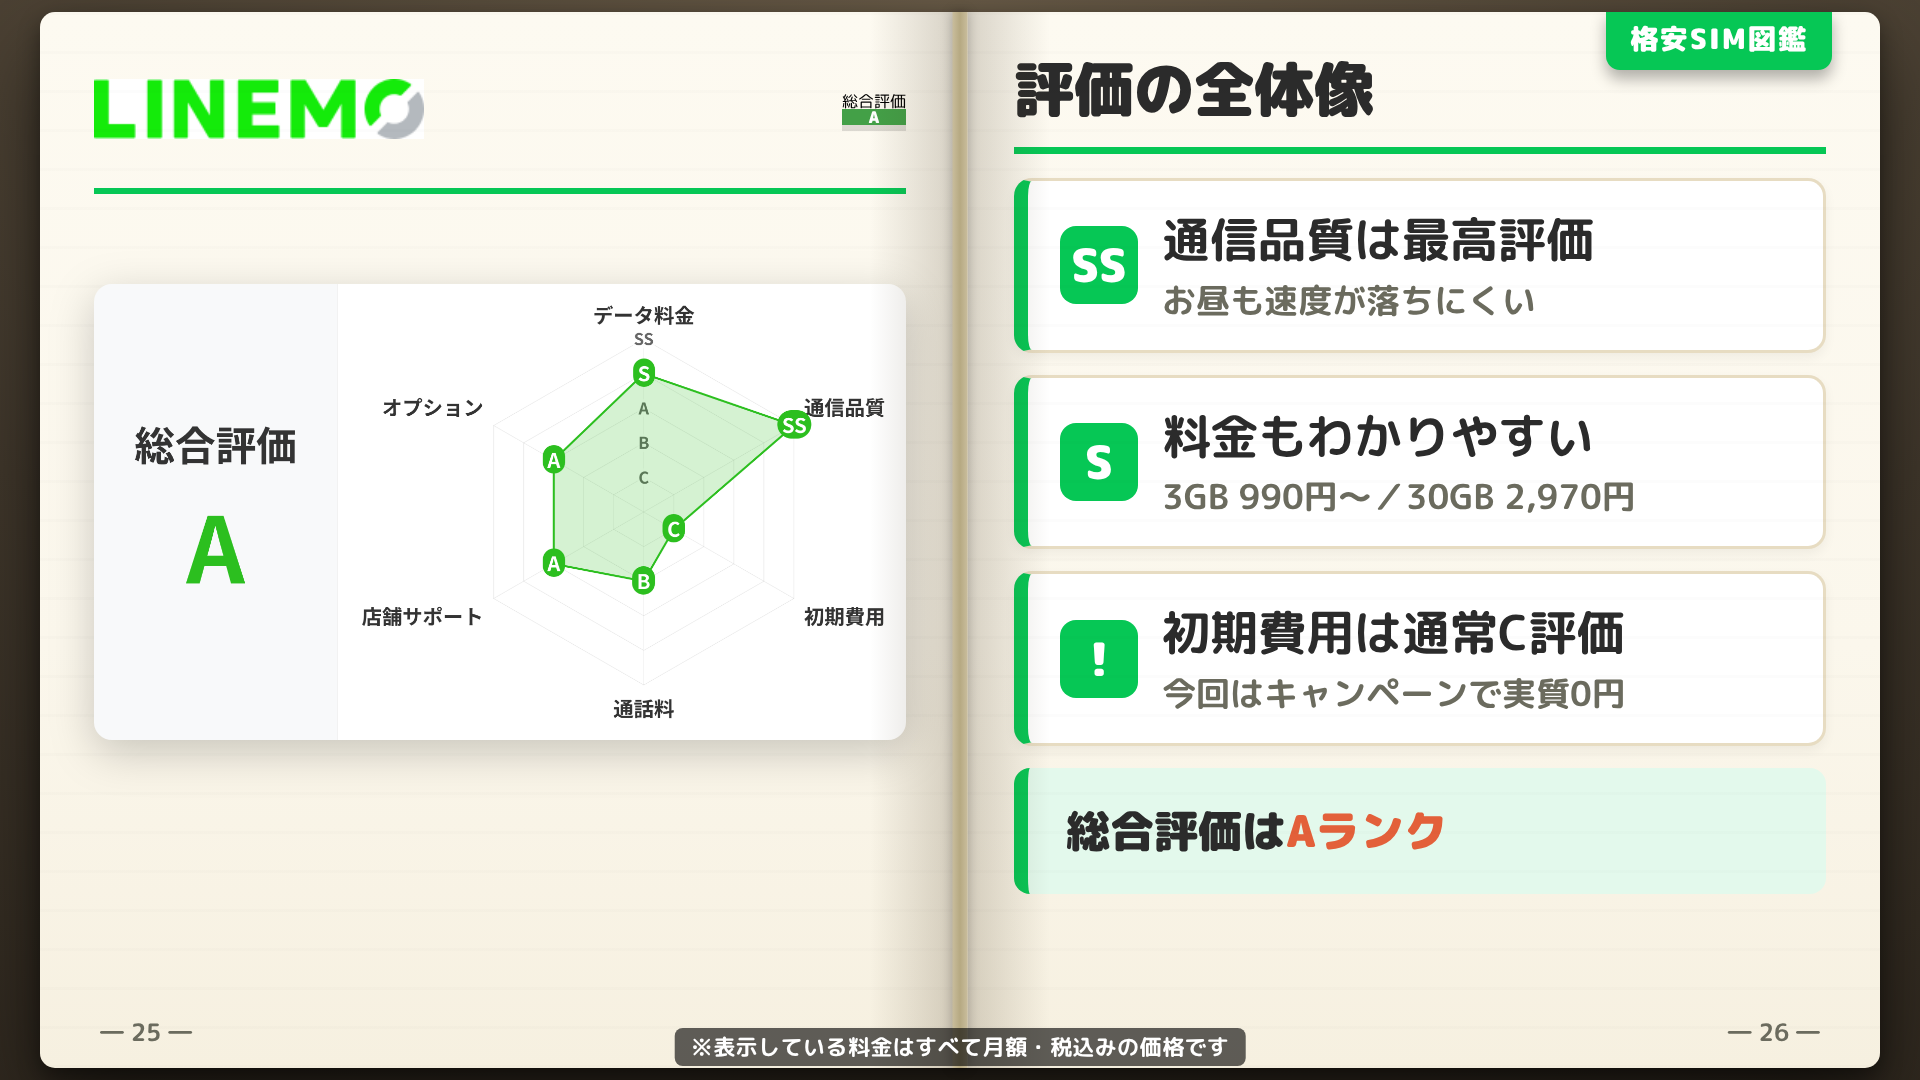
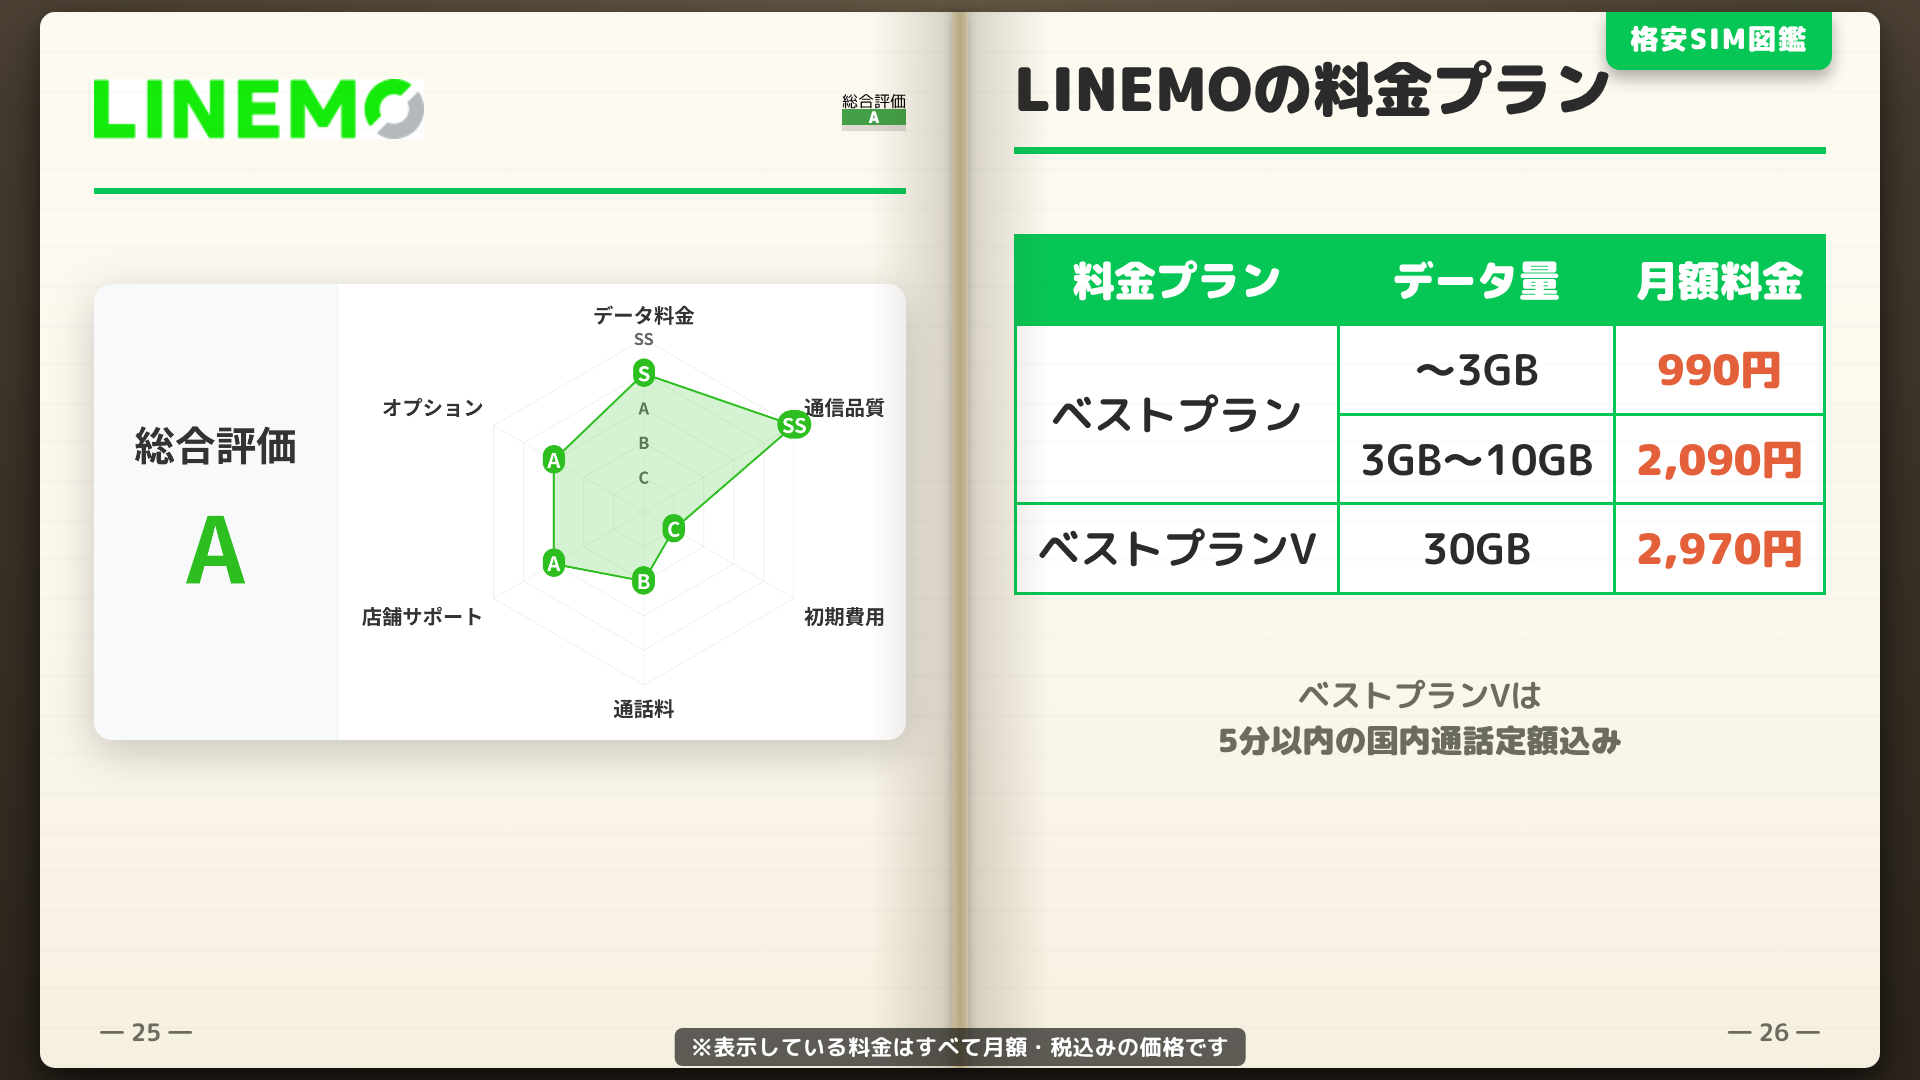
スライド改修

Changed region(s): [[0.5312, 0.1528, 0.9688, 0.825], [0.5312, 0.0611, 0.8438, 0.1222]]

diff --git a/slides.html b/slides.html
@@ -162,40 +162,20 @@
       object-fit: contain
     }
 
-    .eval-note {
-      font-size: 22px !important;
-      text-align: center;
-      margin-top: 8px
+    .eval-detail-page .cards {
+      flex: 0 0 550px;
+      gap: 14px !important
     }
 
-    .right .cards {
-      display: grid !important;
-      grid-template-columns: repeat(2, minmax(0, 1fr)) !important;
-      grid-template-rows: repeat(3, minmax(0, 1fr));
-      gap: 10px !important;
-      min-height: 0
-    }
-
-    .right .card {
-      min-height: 0 !important;
-      padding: 10px !important;
-      grid-template-columns: 64px 1fr !important;
-      column-gap: 12px !important
-    }
-
-    .right .card .rank {
-      width: 60px !important;
-      height: 60px !important;
-      font-size: 30px !important;
-      border-radius: 12px !important
-    }
-
-    .right .card-name {
-      font-size: 25px !important
-    }
-
-    .right .card .line {
-      font-size: 18px !important
+    .eval-note-standalone {
+      flex: none;
+      margin-top: 12px;
+      padding: 9px 14px;
+      border-top: 3px solid #d6cdbb;
+      background: rgba(255, 255, 255, .55);
+      font-size: 21px !important;
+      line-height: 1.3;
+      text-align: center
     }
 
     .head-left .logo {
@@ -479,7 +459,8 @@
         <div class="page-head">割引対象期間</div>
         <div class="page-body center">
           <div class="visual" style="display:flex;flex-direction:column;align-items:center;">
-            <img src="public/images/temp/linemo/トライアルキャンペーン2_割引対象期間_表.png" alt="LINEMOトライアルキャンペーン2の割引対象期間表" style="width:100%;height:auto;">
+            <img src="public/images/temp/linemo/トライアルキャンペーン2_割引対象期間_表.png" alt="LINEMOトライアルキャンペーン2の割引対象期間表"
+              style="width:100%;height:auto;">
             <div class="note" style="margin-top:12px;text-align:center;">LINEMO公式ページから引用</div>
           </div>
         </div><span class="page-no">― 12 ―</span>
@@ -688,23 +669,38 @@
         <div class="head-left"><img class="logo" src="public/images/logo/LINEMO_logo.png" alt="LINEMO">
           <div class="total">総合評価 <span class="rank A">A</span></div>
         </div>
-        <div class="visual" style="height:auto;flex:1;"><img src="public/images/charts/LINEMO.png" alt="LINEMOレーダーチャート" style="max-height:760px;max-width:100%;"></div><span class="page-no">― 25 ―</span>
+        <div class="visual" style="height:auto;flex:1;"><img src="public/images/charts/LINEMO.png" alt="LINEMOレーダーチャート"
+            style="max-height:760px;max-width:100%;"></div><span class="page-no">― 25 ―</span>
       </div>
       <div class="page right"><span class="index-tab">格安SIM図鑑</span>
-        <div class="page-head">評価の全体像</div>
+        <div class="page-head">LINEMOの料金プラン</div>
         <div class="page-body">
-          <ul class="rows">
-            <li><span class="badge">SS</span>
-              <div class="tx">通信品質は最高評価<span class="sub">お昼も速度が落ちにくい</span></div>
-            </li>
-            <li><span class="badge">S</span>
-              <div class="tx">料金もわかりやすい<span class="sub">3GB 990円〜／30GB 2,970円</span></div>
-            </li>
-            <li><span class="badge">!</span>
-              <div class="tx">初期費用は通常C評価<span class="sub">今回はキャンペーンで実質0円</span></div>
-            </li>
-          </ul>
-          <div class="lead tight">総合評価は<span class="em">Aランク</span></div>
+          <table class="sheet">
+            <thead>
+              <tr>
+                <th>料金プラン</th>
+                <th>データ量</th>
+                <th>月額料金</th>
+              </tr>
+            </thead>
+            <tbody>
+              <tr>
+                <td rowspan="2">ベストプラン</td>
+                <td>～3GB</td>
+                <td class="em">990円</td>
+              </tr>
+              <tr>
+                <td>3GB～10GB</td>
+                <td class="em">2,090円</td>
+              </tr>
+              <tr>
+                <td>ベストプランV</td>
+                <td>30GB</td>
+                <td class="em">2,970円</td>
+              </tr>
+            </tbody>
+          </table>
+          <div class="note" style="font-size:32px;text-align:center;">ベストプランVは<br><b>5分以内の国内通話定額込み</b></div>
         </div><span class="page-no">― 26 ―</span>
       </div>
     </div>
@@ -712,7 +708,7 @@
   <div class="slide-container price-note" style="--brand:#06c755;--brand-deep:#008f3c;--brand-soft:#e3f9ec">
     <div class="book">
       <div class="spine"></div>
-      <div class="page left">
+      <div class="page left eval-detail-page">
         <div class="page-head">強みの3項目</div>
         <div class="cards">
           <div class="card"><span class="rank S">S</span>
@@ -732,9 +728,9 @@
           </div>
         </div><span class="page-no">― 27 ―</span>
       </div>
-      <div class="page right"><span class="index-tab">格安SIM図鑑</span>
+      <div class="page right eval-detail-page"><span class="index-tab">格安SIM図鑑</span>
         <div class="page-head">注意したい3項目</div>
-        <div class="cards" style="grid-template-columns:1fr!important;grid-template-rows:repeat(3,minmax(0,1fr));">
+        <div class="cards">
           <div class="card"><span class="rank C">C</span>
             <div class="card-name">初期費用</div>
             <div class="line pro"><span class="tag">＋</span>今ならキャンペーン対象</div>
@@ -751,7 +747,8 @@
             <div class="line con"><span class="tag">－</span>サポートは有料</div>
           </div>
         </div>
-        <div class="note eval-note">※本評価は当チャンネルの独断と偏見による独自評価であり、キャンペーン割引等は考慮していません</div><span class="page-no">― 28 ―</span>
+        <div class="note eval-note-standalone">※本評価は当チャンネルの独断と偏見による独自評価であり、キャンペーン割引等は考慮していません</div><span class="page-no">― 28
+          ―</span>
       </div>
     </div>
   </div><!-- Slide ID: 13-3 -->
@@ -847,7 +844,7 @@
       <div class="page right"><span class="index-tab">格安SIM図鑑</span>
         <div class="page-head">最重要ポイント</div>
         <div class="page-body center">
-          <div class="emph">必ず<span class="big">専用URL</span>経由で申し込む</div>
+          <div class="emph">必ず<br><span class="big">専用URL</span>経由で申し込む</div>
         </div><span class="page-no">― 32 ―</span>
       </div>
     </div>

diff --git a/.agents/skills/generate-html-slides/SKILL.md b/.agents/skills/generate-html-slides/SKILL.md
@@ -126,6 +126,8 @@ Script file path: $ARGUMENTS (default: `台本.txt`)
   ```
   `.note` の既定サイズ（44px）は `.cards` を圧迫するため、上記のように `font-size:28px` へ縮小して使う。評価見開きが左右2ページとも `.cards` の見開き（`N-0` を使わない自己完結1見開き）の場合も右ページに1回だけ入れれば足りる（左右両方に重複表示しない）。
 
+> 台本または過去動画に `N-0` と `N` のペアが存在する場合、単一 `N` へ統合してはならない。`N-0` はレーダーチャート＋料金プラン、`N` は6項目ランク詳細とする。
+
 > **本パイプラインでの実態（重要）**：`generate-youtube-video` の本編は、`セリフ台本.txt` の各行の slideId を `slide_NN.png` に **1:1 で対応**させて表示する（`generate-scenario`）。ZukanSpread のカメラ演出（評価見開きと料金見開きをペアで寄せる仕組み）は**本編未統合**のため、下記の料金プラン見開き `N-0` は台本にその slideId が未登録であれば表示されない。したがって本編用途では、**評価は台本の単一 slideId（`N`）で自己完結する1見開き**（左＝ロゴ画像［社名テキスト不可］＋レーダーチャート、右＝6観点＋代表プラン）にしてよい。ZukanSpread を統合した動画・デモを作るときだけ、次の `N-0` ペアを併せて作る。
 
 ### （ZukanSpread 統合時）評価見開き `N` には「料金プラン見開き `N-0`」をセットで前に置く
